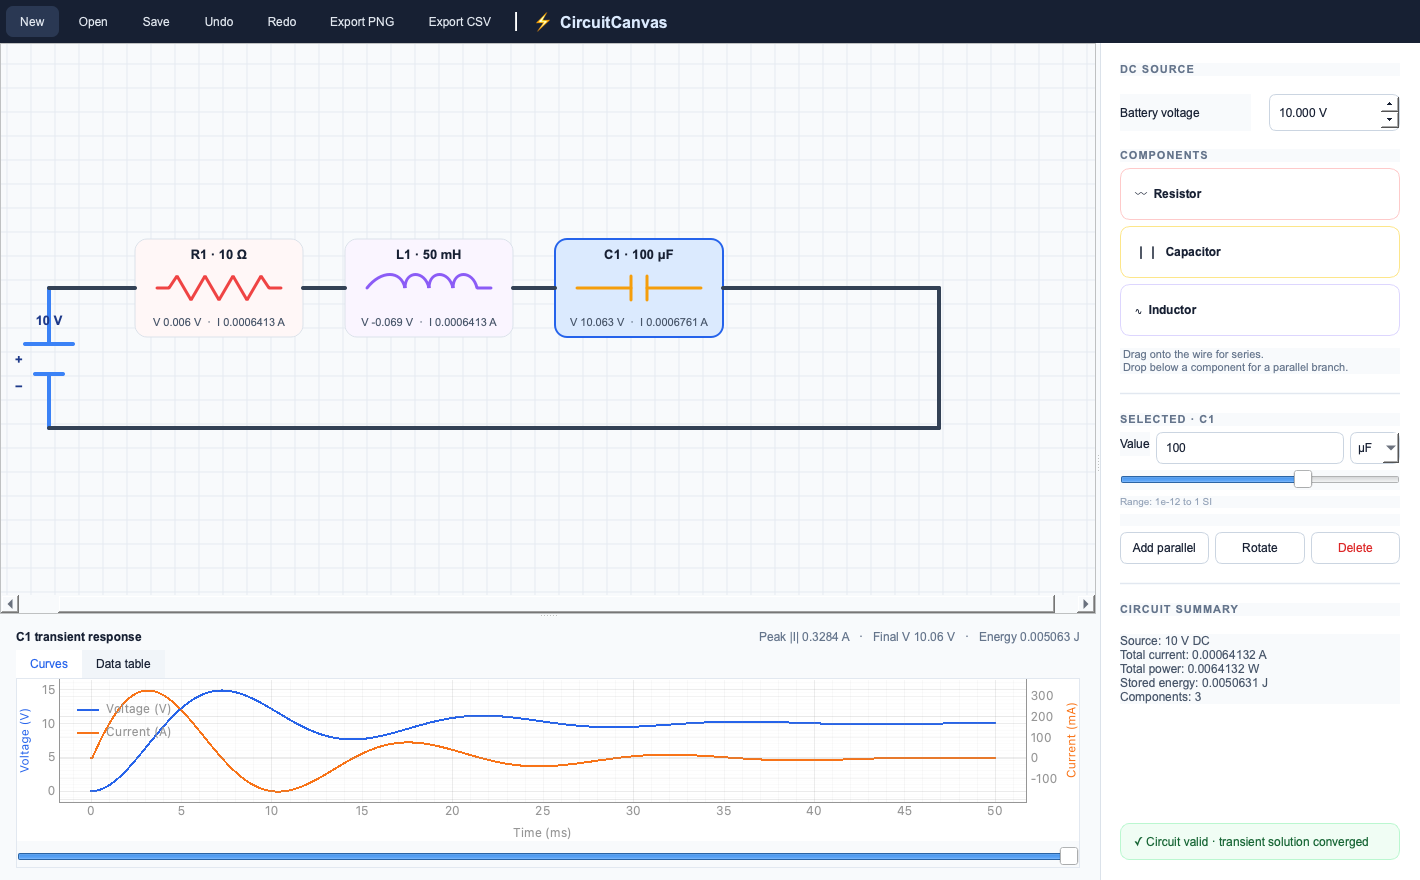
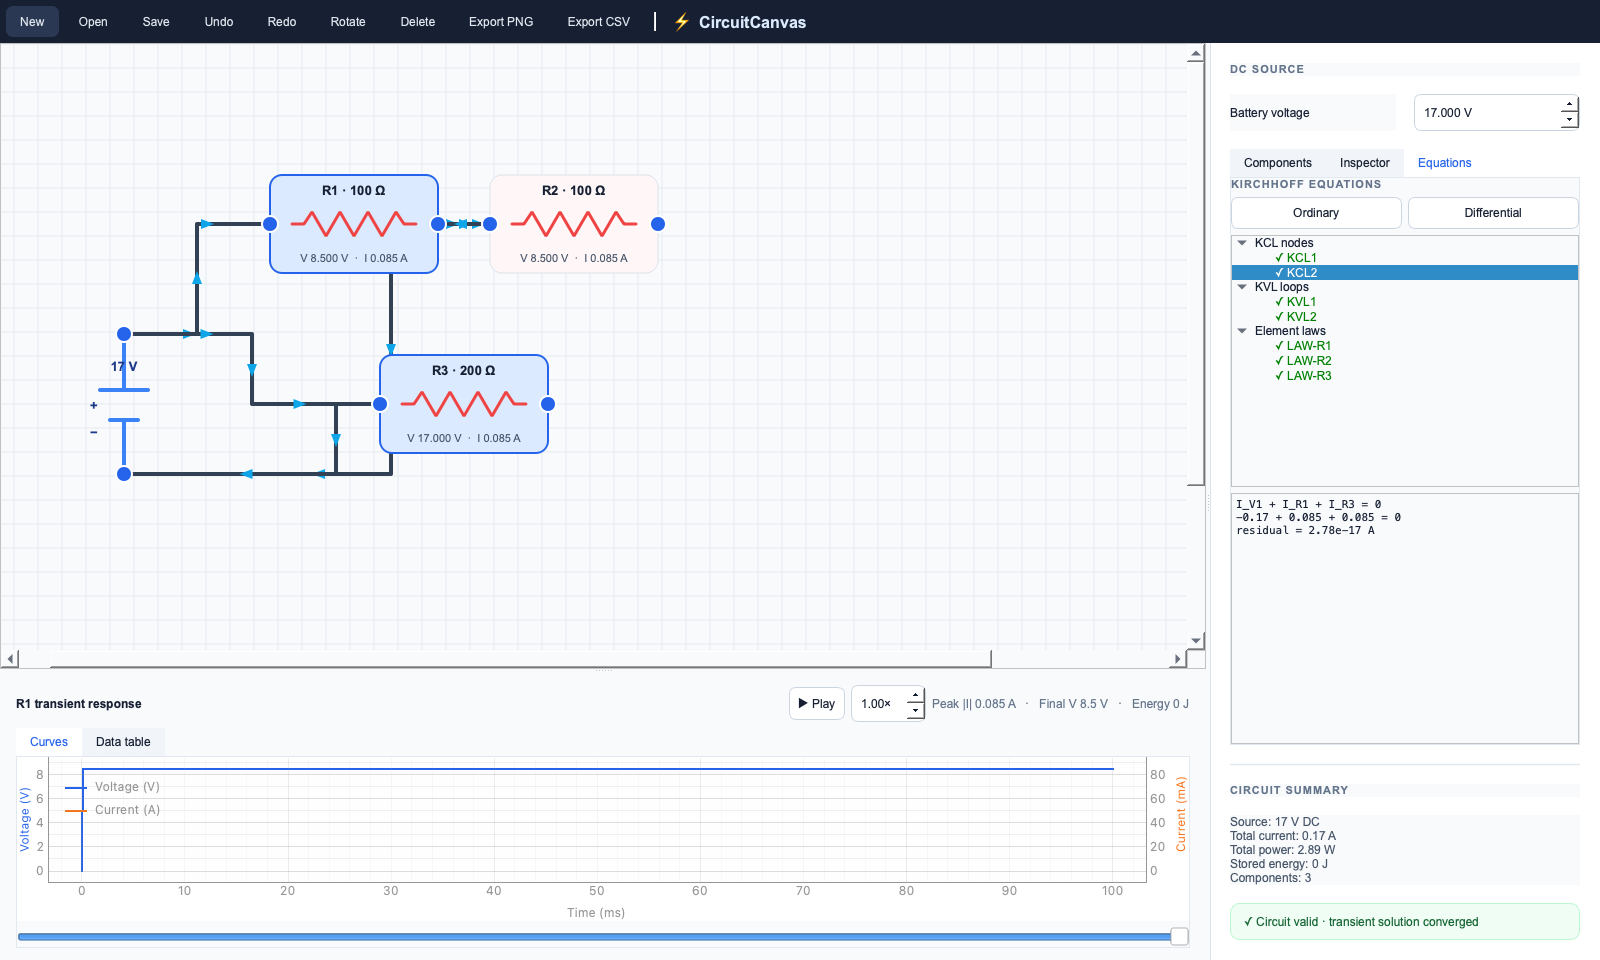
docs: present CircuitCanvas 0.2

diff --git a/README.md b/README.md
@@ -1,8 +1,8 @@
 # CircuitCanvas
 
-**An interactive RLC circuit builder and time-domain simulator.** Drag resistors, capacitors, and inductors into a battery-powered circuit, edit their values, and watch every voltage, current, power, and stored-energy result update automatically.
+**A free-wiring RLC circuit builder and time-domain simulator.** Place resistors, capacitors, and inductors anywhere, wire their terminals into arbitrary linear topologies, and watch the Kirchhoff equations, current direction, voltage, power, and stored energy update automatically.
 
-![CircuitCanvas showing an underdamped RLC transient](docs/images/circuitcanvas-main.png)
+![CircuitCanvas showing a free-wired Kirchhoff analysis](docs/images/circuitcanvas-main.png)
 
 ## Why this project exists
 
@@ -16,10 +16,15 @@ The application does not call an external circuit simulator. Its Python solver a
 
 ## Highlights
 
-- Smart-snap circuit canvas with a battery and expandable series/parallel layout
+- Free-form terminal wiring with explicit junctions and non-connecting wire crossings
+- Movable components, 90° rotation, draggable junctions, and editable wire bends
 - Repeated addition of any practical number of R, C, and L components
 - Direct value entry, SI units, and logarithmic parameter sliders
 - Live voltage and current labels next to every component
+- Animated blue arrows whose direction and speed follow solved wire current
+- Complete KCL, independent KVL-loop, and element-law equations
+- Ordinary numeric equations or the differential MNA/DAE system at any time sample
+- Residual indicators that show whether each displayed Kirchhoff equation balances
 - RC, RL, and RLC transient simulation after every edit
 - Independent voltage and current axes with a shared time cursor
 - Data table for time, voltage, current, power, and stored energy
@@ -45,15 +50,17 @@ On Windows, activate the environment with `.venv\Scripts\activate` before runnin
 
 ## Build a circuit
 
-1. Start with the battery and open drop target.
-2. Drag a component onto the top wire, or click its palette card, to insert it in series.
-3. Drop a component below an existing one to create a parallel branch.
-4. Repeat the operation to add more components; the canvas expands automatically.
-5. Select a component and type a value or move its logarithmic slider.
-6. Drag the time cursor under the graph to inspect all on-canvas values at the same instant.
-7. Use **Data table**, **Export CSV**, or **Export PNG** to keep the result.
+1. Drag any number of components from the **Components** tab onto the canvas.
+2. Drag an orange terminal dot to another terminal to make a connection.
+3. Drop a new wire onto an existing wire to create a real electrical junction. A visual crossing without a junction dot remains disconnected.
+4. Drop a wire on empty canvas to create a movable junction. Shift-drag a junction dot to continue wiring from it.
+5. Drag components and junction dots to reshape the circuit. Drag the square bend handles, or double-click a wire to add another handle.
+6. Select a component and use **Rotate** (or `R`), **Delete**, the value field, or the logarithmic slider.
+7. Open **Equations** and switch between **Ordinary** and **Differential**. Selecting an equation highlights its circuit elements.
+8. Press **Play** to animate time and the blue current arrows, or drag the time cursor to inspect one instant.
+9. Use **Data table**, **Export CSV**, or **Export PNG** to keep the result.
 
-Four ready-to-run circuits are included in [`examples/`](examples): resistor, RC charge, RL step, and underdamped RLC.
+Five ready-to-run circuits are included in [`examples/`](examples), including [`parallel-series-17v.json`](examples/parallel-series-17v.json), where a 200 Ω resistor is parallel with a 100 Ω + 100 Ω series branch.
 
 ## Mathematical model
 
@@ -86,7 +93,7 @@ Validation → MNA assembly → transient integration
 Canvas labels + plots + table + exports
 ```
 
-The domain and solver packages have no Qt dependencies, which keeps the numerical core easy to test and reusable. Background results carry the circuit revision that produced them, so a slow older simulation cannot overwrite a newer edit. See [the architecture notes](docs/architecture.md) for module boundaries and data flow.
+The domain and solver packages have no Qt dependencies, which keeps the numerical core easy to test and reusable. Physical connectivity comes only from terminal-to-terminal wires and explicit junctions—not screen proximity. Background results carry the circuit revision that produced them, so a slow older simulation cannot overwrite a newer edit. See [the architecture notes](docs/architecture.md) for module boundaries and data flow.
 
 ## Verify the project
 
@@ -98,7 +105,7 @@ QT_QPA_PLATFORM=offscreen python -m pytest -q
 python -m build
 ```
 
-The suite covers domain validation, repeated graph edits, persistence, MNA stamps, analytical transients, conservation residuals, GUI interaction, stale background results, exports, and example circuits.
+The suite covers free graph edits, schema migration, MNA stamps, analytical transients, KCL/KVL residuals, ideal-wire flow reconstruction, GUI interaction, animation, stale background results, exports, and example circuits.
 
 ## Create the macOS application
 
@@ -111,11 +118,12 @@ The source remains Windows-compatible; a Windows executable can be built from th
 
 ## Current scope
 
-Version 1 models one ideal DC source and linear R, C, and L components in circuits constructed through repeated series and parallel operations. It intentionally does not claim support for diodes, transistors, arbitrary freehand wiring, multiple sources, or frequency-domain analysis.
+Version 0.2 models one ideal DC source and arbitrary ideal-wire networks of linear R, C, and L components. It intentionally does not claim support for diodes, transistors, dependent or multiple sources, wire resistance, or frequency-domain analysis.
+
+Current inside a zero-resistance wire loop is not physically unique. CircuitCanvas therefore displays the deterministic minimum-norm wire-flow solution that satisfies every terminal injection and KCL constraint; component currents and all electrical results still come directly from MNA.
 
 The next mathematically coherent extension is a sinusoidal source with impedance, phasors, resonance sweeps, and Bode plots.
 
 ## License
 
 Released under the [MIT License](LICENSE).
-

diff --git a/docs/architecture.md b/docs/architecture.md
@@ -6,10 +6,10 @@ CircuitCanvas separates the electrical model, solver, and user interface so each
 
 | Package | Responsibility | Depends on Qt |
 |---|---|---|
-| `domain` | Components, nodes, settings, snapshots, JSON persistence | No |
-| `commands` | Atomic series/parallel/value/delete edits and undo state | No |
-| `solver` | Validation, MNA stamping, time integration, result derivation | No |
-| `ui` | Canvas, dragging, inspection, plotting, export, background work | Yes |
+| `domain` | Components, terminal/junction wiring, settings, snapshots, JSON persistence | No |
+| `commands` | Atomic topology/layout/value edits and complete undo state | No |
+| `solver` | Validation, netlist derivation, MNA, equations, wire flow, integration | No |
+| `ui` | Free canvas, equation browser, animation, plots, export, background work | Yes |
 
 The solver accepts `CircuitSnapshot`, an immutable representation of source, nodes, components, settings, and revision. It never reads coordinates from the graphics scene. The scene refers to components through stable IDs and never treats nearby pixels as electrical connectivity.
 
@@ -23,7 +23,7 @@ sequenceDiagram
     participant Controller as SimulationController
     participant Solver as MNA solver
 
-    User->>UI: Drop component or edit value
+    User->>UI: Place, wire, move, rotate, or edit
     UI->>Graph: Execute atomic command
     Graph-->>UI: New revision and snapshot
     UI->>Controller: Request(revision, snapshot)
@@ -35,16 +35,27 @@ sequenceDiagram
     UI-->>User: Update labels, plots, table, totals
 ```
 
-## Circuit construction
+## Physical wiring and electrical connectivity
 
-The public interaction model is deliberately narrower than the internal graph:
+Every component and the battery expose two stable terminal references. A wire joins two terminal or junction references and may carry any number of visual route points. A union-find pass collapses each connected ideal-wire set into one solver node when an immutable snapshot is created.
 
-- an initial drop closes the battery loop;
-- a series insertion splits a component edge with a new node;
-- a parallel insertion reuses an existing component's endpoint nodes; and
-- operations may be repeated without a fixed component count.
+This separation makes the rules unambiguous:
 
-This produces useful series-parallel networks while avoiding ambiguous freehand connections. The canvas groups equal endpoint pairs vertically as parallel branches and lays distinct endpoint groups horizontally. Its scene rectangle expands in both directions for large networks.
+- moving a component or a bend changes only layout;
+- crossing wire paths do not connect;
+- dropping on a wire splits it with an explicit junction;
+- multiple branches may share either terminal, so arbitrary series/parallel combinations are natural; and
+- solver connectivity never depends on pixel distance.
+
+All topology and layout edits are stored by `CircuitCommandStack`, so undo/redo restores components, rotations, junctions, routes, and counters together.
+
+## Kirchhoff presentation layer
+
+After MNA solves the immutable graph, the equation builder enumerates every non-ground KCL equation, a multigraph fundamental-cycle basis for independent KVL equations, and the R/C/L constitutive laws. Each row carries symbolic text, substituted values, a residual, and the involved IDs so the equation panel can highlight the canvas.
+
+The differential view exposes the same circuit as `C x_dot(t) + G x(t) = b(t)` together with the exact unknown vector and matrices used by the numerical solver.
+
+The wire-flow layer solves the ideal-conductor incidence system `Bf = -q` with a deterministic minimum-norm solution. This supplies KCL-consistent animation arrows without pretending that current distribution around a zero-resistance wire-only loop is uniquely measurable.
 
 ## Background simulation
 
@@ -63,7 +74,6 @@ Arrays become read-only when the result is created. Presentation widgets therefo
 
 ## Persistence
 
-The JSON file contains a schema version, source, components, nodes, positions, simulation settings, and open-edge state. Computed arrays are not saved because they can be reproduced from the authoritative circuit.
+Schema version 2 stores source, components, positions, rotations, terminal/junction endpoints, wire routes, and simulation settings. Schema-1 series/parallel files are migrated by synthesizing explicit junction wiring. Computed arrays are not saved because they can be reproduced from the authoritative circuit.
 
 Unsupported schema versions and malformed files raise `CircuitFileError` with an actionable message. Stable component IDs and layout coordinates survive a round trip.
-

diff --git a/docs/mathematics.md b/docs/mathematics.md
@@ -29,6 +29,22 @@ S(a,b,y)=
 
 Ground-node rows and columns are omitted rather than inserted as zero equations.
 
+## Kirchhoff equations shown in the UI
+
+For every non-reference node, CircuitCanvas reports KCL using signed branch currents:
+
+\[
+\sum_{e\in\delta(n)} s_{n,e} i_e(t)=0.
+\]
+
+It builds a fundamental cycle basis on the component multigraph and reports one independent KVL equation per cycle:
+
+\[
+\sum_{e\in\mathcal{C}} s_{\mathcal{C},e} v_e(t)=0.
+\]
+
+Parallel edges are preserved, so a two-edge loop is represented correctly. Every equation shows its symbolic form, signed numeric substitution at the selected time, and the computed residual. The differential view prints the R/C/L constitutive equations and the exact MNA descriptor matrices.
+
 ## Time integration
 
 The battery is treated as a step from 0 V to the configured value. With a fixed step \(\Delta t\), the implicit trapezoidal update is
@@ -69,6 +85,18 @@ E_L=\frac{1}{2}Li_L^2.
 \]
 
 The source current uses the MNA auxiliary-current direction. A negative source power means the battery is delivering energy to the network; the user-facing summary reports delivered magnitude.
+
+## Current arrows on ideal wires
+
+MNA solves branch currents through physical elements, not an arbitrary current for every zero-resistance drawing segment. CircuitCanvas converts those solved terminal currents into wire arrows by solving
+
+\[
+Bf=-q,
+\]
+
+where `B` is the oriented incidence matrix of each connected wire network, `q` is the vector of solved terminal injections, and `f` contains displayed wire currents. The least-norm solution is deterministic and satisfies KCL at every junction. Its residual is tested independently.
+
+The arrow direction follows the sign of `f`; speed increases logarithmically with magnitude and arrows stop when the current is numerically zero or the simulation result is stale. In a closed loop made only of ideal wire, several segment-current assignments are physically equivalent, so the least-norm result is a visualization convention rather than an extra physical claim.
 
 ## Analytical verification
 
